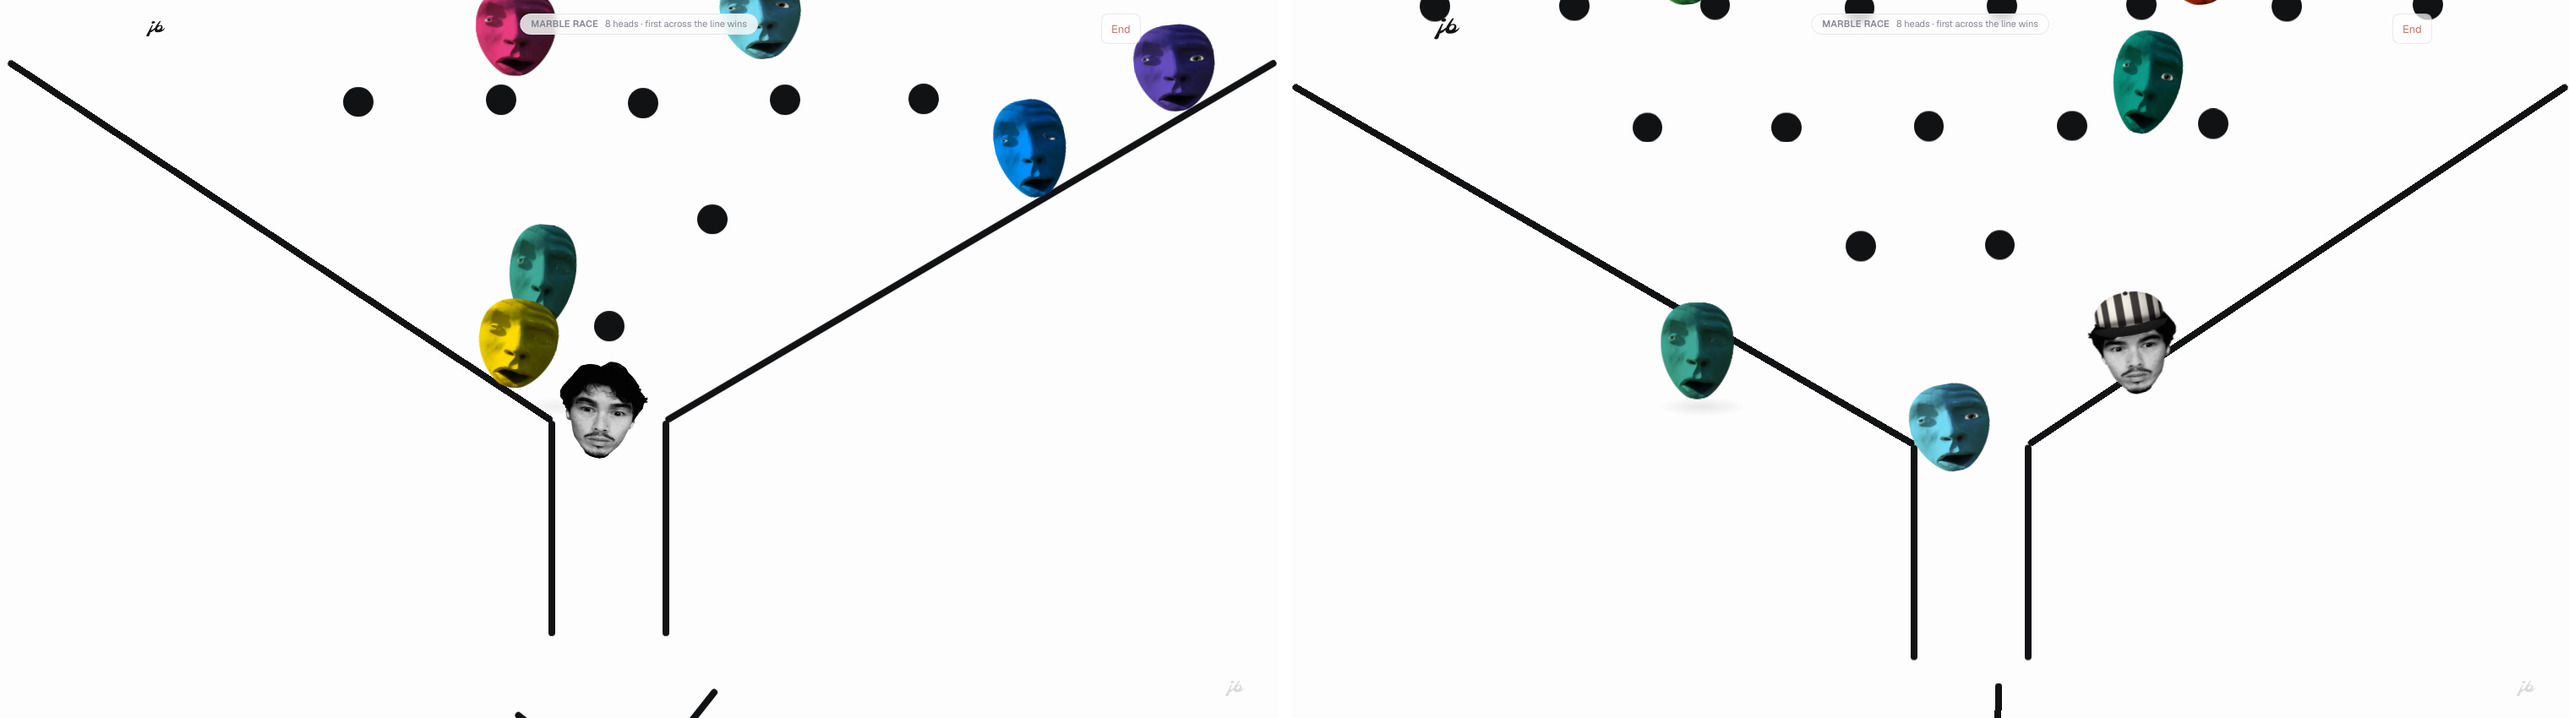
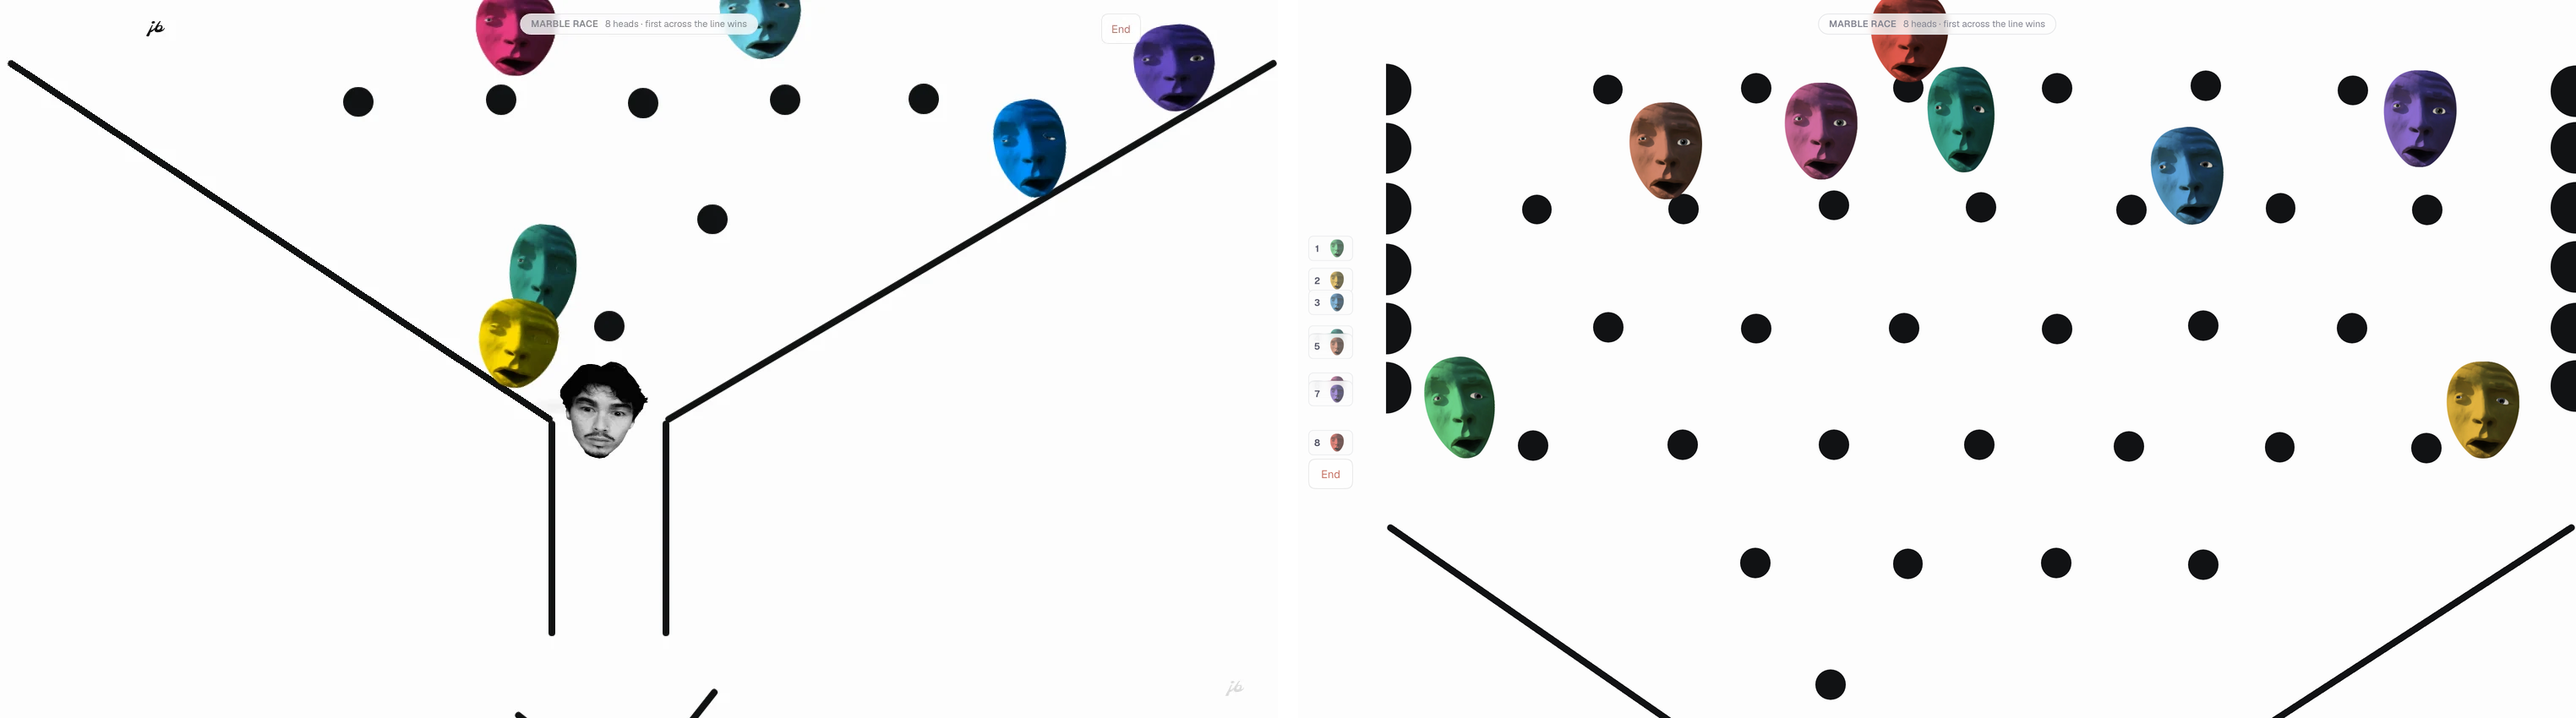
The League is a side project, so it moves to Extras and the kickoff becomes its face
Five things he asked for after looking at the shipped case study.

THE LEAGUE IS IN EXTRAS. "i think the yowmings league should be in the extras."
It sat under Case Studies, the tab a recruiter scans for client-and-team work;
Extras is where side projects go. It is the same .csItem article, unchanged --
the reel below it was already built to that geometry, so an .csItem is what
"matching the existing Extras entry" means. Measured at 1512: card and reel both
run 156 -> 1356, both sit 16px under the tab hairline, and the seam between them
is 64px, which is --work-item-gap. That last number needed one new rule --
.csItem+.csItem cannot see across the boundary to a <section>, and at 1512
--work-stage-pad is 0, so without it the two would have touched. The
Featured / Case Studies split is untouched: Featured is still a strict subset.

THE COVER IS THE KICKOFF, AND IT IS ONE PLATE. "for the thumbnail can it be a
thumbnail of the kickoff I feel like those look funner." The other five case
studies use ONE 1200x600 file as both the Home card and the page's own cover;
this page was the outlier with a second 16/9 pair. Now it does what the series
does, so the crop math is the series' (12/5 takes 83% of the height, 8/5 takes
80% of the width) and the cover is already in cache from the card the visitor
clicked. cover-1200/2400 are deleted rather than left orphaned.
The plate: the score bar cropped off the top, then the flat 253 pitch extended
[…]

diff --git a/index.html b/index.html
@@ -2907,7 +2907,7 @@ if(location.hash==="#about")location.replace("about.html");</script>
    <div class="csTrack">
     <div class="csStage">
      <div class="csStageInner">
-      <a class="csGo" href="yowmings.html" aria-label="View the Yowmings League case study"><figure class="csFrame"><img class="csImg" src="images/cs/yowmings/card-1200.webp" srcset="images/cs/yowmings/card-1200.webp 1200w, images/cs/yowmings/card-2400.webp 2400w" sizes="(max-width: 760px) calc(100vw - 48px), (max-width: 1280px) calc(100vw - 80px), 1200px" alt="Yowmings League: the kickoff of a browser football match: a head in a striped referee cap drops in with the ball just released beneath it, four cut-out heads waiting below, uprights at each end" loading="lazy" decoding="async"></figure></a>
+      <a class="csGo" href="yowmings.html" aria-label="View the Yowmings League case study"><figure class="csFrame"><img class="csImg" src="images/cs/yowmings/card-1200.webp" srcset="images/cs/yowmings/card-1200.webp 1200w, images/cs/yowmings/card-2400.webp 2400w" sizes="(max-width: 760px) calc(100vw - 48px), (max-width: 1280px) calc(100vw - 80px), 1200px" alt="Yowmings League: a head in a striped referee cap drops the ball in at kickoff, with four cut-out heads waiting on the pitch below and a set of uprights at each end" loading="lazy" decoding="async"></figure></a>
       <div class="csMeta"><span class="csName">Yowmings League</span><span class="csYear">2026</span><span class="csImpact">Designed and built solo &middot; it settles a real draft order</span></div>
      </div>
     </div>

diff --git a/yowmings.html b/yowmings.html
@@ -1653,8 +1653,8 @@ a svg,button svg,[role=button] svg,.moodIco svg,.cmpKnob svg,.baGo svg{
        </div>
        <div class="baCol isAfter">
         <span class="baLabel">After</span>
-        <figure class="wide"><img src="images/cs/yowmings/race-after.webp" width="1512" height="850" alt="The same course after the fix: the slot between the walls is wider and the heads are spread out and moving through it." loading="lazy" decoding="async" draggable="false"></figure>
-        <span class="baNote">The opening scales with the bar that makes it. The field spreads and keeps going.</span>
+        <figure class="wide"><img src="images/cs/yowmings/race-after.webp" width="1512" height="850" alt="The same funnel after the fix, on the same wide screen: all eight heads are strung out right across the mouth of it, falling, with nothing queued above the slot." loading="lazy" decoding="async" draggable="false"></figure>
+        <span class="baNote">The opening scales with the bar that makes it. Nothing queues above the slot: the field is strung across the whole mouth of the funnel and still falling through it.</span>
        </div>
       <span class="baGo" aria-hidden="true"><svg viewBox="0 0 24 24" fill="none" stroke="currentColor" stroke-width="2" stroke-linecap="round" stroke-linejoin="round"><line x1="5" y1="12" x2="19" y2="12"/><polyline points="13 6 19 12 13 18"/></svg></span>
       </div>
